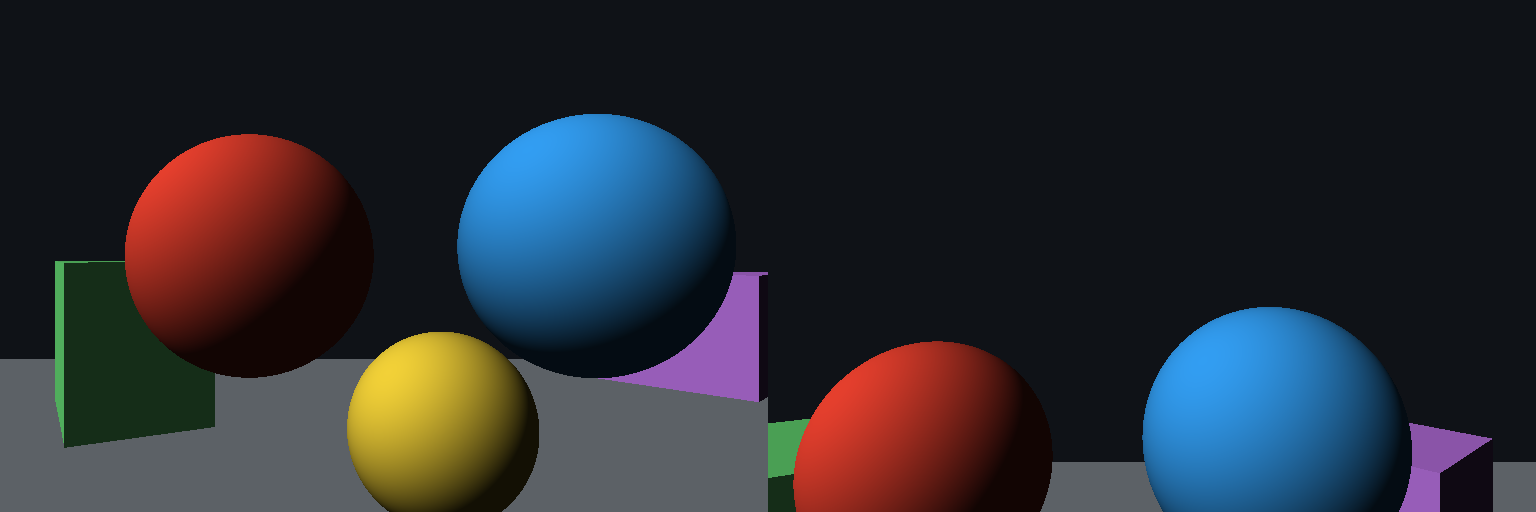
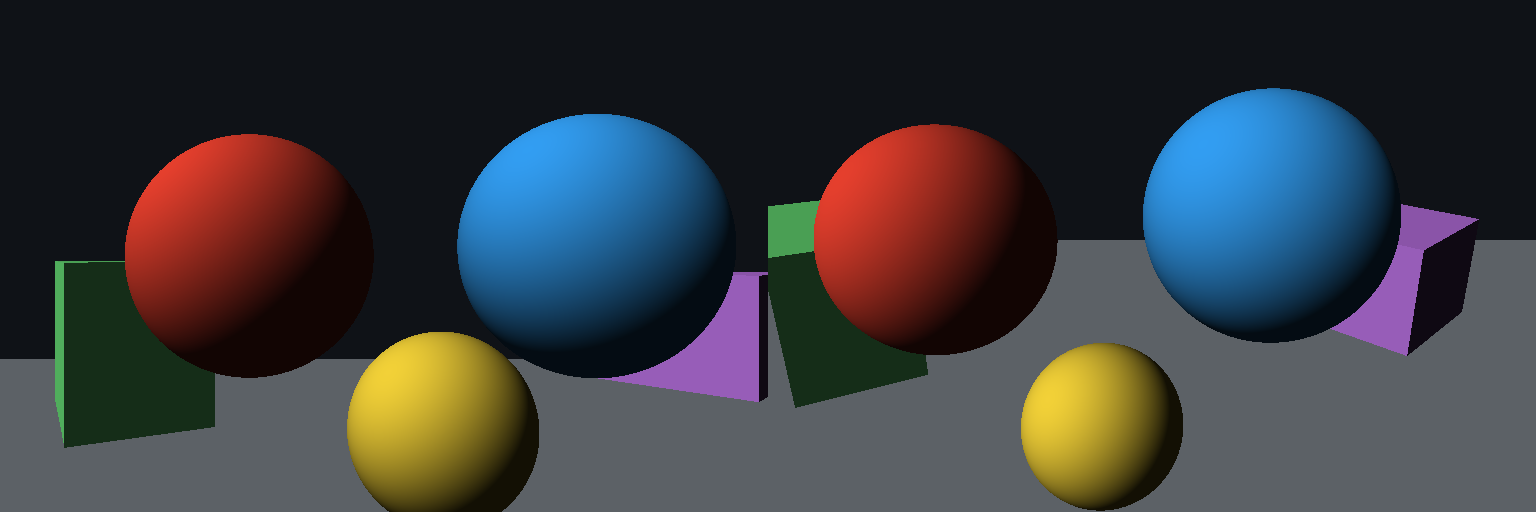
Camera orientation

diff --git a/synthetic_scene/renderer.py b/synthetic_scene/renderer.py
@@ -16,6 +16,11 @@ Vec3List = Union[Sequence[Vec3], torch.Tensor]
 @dataclass(frozen=True)
 class Camera:
     origin: Vec3 = (0.0, 0.0, 0.0)
+    orientation: Union[Sequence[Vec3], torch.Tensor] = (
+        (1.0, 0.0, 0.0),
+        (0.0, 1.0, 0.0),
+        (0.0, 0.0, 1.0),
+    )
     fov_degrees: float = 45.0
 
 
@@ -77,6 +82,15 @@ def _camera_origins(cameras: Camera | Sequence[Camera], *, device: torch.device 
     return torch.stack(origins, dim=0).contiguous()
 
 
+def _camera_orientations(cameras: Camera | Sequence[Camera], *, device: torch.device | str = "cuda") -> torch.Tensor:
+    if isinstance(cameras, Camera):
+        return _mat3(cameras.orientation, device=device).reshape(1, 3, 3)
+    if len(cameras) == 0:
+        raise ValueError("at least one camera is required")
+    orientations = [_mat3(camera.orientation, device=device) for camera in cameras]
+    return torch.stack(orientations, dim=0).contiguous()
+
+
 def _camera_fov_degrees(cameras: Camera | Sequence[Camera]) -> float:
     if isinstance(cameras, Camera):
         return float(cameras.fov_degrees)
@@ -86,6 +100,16 @@ def _camera_fov_degrees(cameras: Camera | Sequence[Camera]) -> float:
     if any(float(camera.fov_degrees) != fov_degrees for camera in cameras):
         raise ValueError("batched cameras must share the same fov_degrees")
     return fov_degrees
+
+
+def _mat3(value: Union[Sequence[Vec3], torch.Tensor], *, device: torch.device | str = "cuda") -> torch.Tensor:
+    tensor = torch.as_tensor(value, dtype=torch.float32, device=device)
+    if tensor.numel() != 9:
+        raise ValueError("expected a 3 x 3 matrix")
+    tensor = tensor.reshape(3, 3)
+    if bool((tensor.norm(dim=1) <= 1.0e-8).any().item()):
+        raise ValueError("camera orientation rows must be non-zero")
+    return tensor.contiguous()
 
 
 def _vec3_list(value: Vec3List, *, device: torch.device | str = "cuda") -> torch.Tensor:
@@ -181,6 +205,7 @@ def render_scene(
         raise ValueError("box_axes must contain non-zero axis vectors")
 
     camera_origins = _camera_origins(camera_data, device=device)
+    camera_orientations = _camera_orientations(camera_data, device=device)
     batch_size = camera_origins.shape[0]
 
     image = torch.empty((batch_size, 3, height, width), dtype=torch.float32, device=device)
@@ -192,6 +217,7 @@ def render_scene(
         semantic_map,
         {
             "origin": camera_origins,
+            "orientation": camera_orientations,
             "fov_degrees": _camera_fov_degrees(camera_data),
         },
         {

diff --git a/synthetic_scene/csrc/bindings.cpp b/synthetic_scene/csrc/bindings.cpp
@@ -7,6 +7,7 @@ void render_scene_cuda(
     torch::Tensor instance_map,
     torch::Tensor semantic_map,
     torch::Tensor camera_origin,
+    torch::Tensor camera_orientation,
     torch::Tensor sphere_centers,
     torch::Tensor sphere_radii,
     torch::Tensor plane_points,
@@ -51,6 +52,7 @@ void render_scene(
   const py::dict boxes = require_dict(scene, "boxes");
 
   const torch::Tensor camera_origin = require_tensor(camera, "origin");
+  const torch::Tensor camera_orientation = require_tensor(camera, "orientation");
   const double fov_degrees = require_double(camera, "fov_degrees");
   const torch::Tensor light_dir = require_tensor(options, "light_dir");
   const torch::Tensor background = require_tensor(options, "background");
@@ -83,12 +85,17 @@ void render_scene(
           (semantic_map.dim() == 3 && semantic_map.size(0) == image.size(0) && semantic_map.size(1) == image.size(2) &&
            semantic_map.size(2) == image.size(3)),
       "semantic_map must be empty or B x H x W");
-  TORCH_CHECK(camera_origin.is_cuda() && sphere_centers.is_cuda() && sphere_radii.is_cuda(), "scene tensors must be CUDA tensors");
+  TORCH_CHECK(camera_origin.is_cuda() && camera_orientation.is_cuda(), "camera tensors must be CUDA tensors");
+  TORCH_CHECK(sphere_centers.is_cuda() && sphere_radii.is_cuda(), "scene tensors must be CUDA tensors");
   TORCH_CHECK(plane_points.is_cuda() && plane_normals.is_cuda(), "scene tensors must be CUDA tensors");
   TORCH_CHECK(box_centers.is_cuda() && box_half_sizes.is_cuda() && box_axes.is_cuda(), "scene tensors must be CUDA tensors");
   TORCH_CHECK(light_dir.is_cuda() && background.is_cuda() && sphere_colors.is_cuda() && plane_colors.is_cuda() && box_colors.is_cuda(), "scene tensors must be CUDA tensors");
   TORCH_CHECK(camera_origin.dim() == 2 && camera_origin.size(1) == 3, "camera_origin must be B x 3");
+  TORCH_CHECK(
+      camera_orientation.dim() == 3 && camera_orientation.size(1) == 3 && camera_orientation.size(2) == 3,
+      "camera_orientation must be B x 3 x 3");
   TORCH_CHECK(camera_origin.size(0) == image.size(0), "camera_origin batch size must match image batch size");
+  TORCH_CHECK(camera_orientation.size(0) == image.size(0), "camera_orientation batch size must match image batch size");
   TORCH_CHECK(sphere_centers.dim() == 2 && sphere_centers.size(1) == 3, "sphere_centers must be N x 3");
   TORCH_CHECK(sphere_radii.dim() == 1, "sphere_radii must be N");
   TORCH_CHECK(plane_points.dim() == 2 && plane_points.size(1) == 3, "plane_points must be N x 3");
@@ -109,6 +116,7 @@ void render_scene(
   TORCH_CHECK(sphere_centers.size(0) > 0 || plane_points.size(0) > 0 || box_centers.size(0) > 0, "at least one object is required");
   TORCH_CHECK(light_dir.numel() == 3 && background.numel() == 3, "light/background vectors must be vec3");
   TORCH_CHECK(camera_origin.dtype() == torch::kFloat32, "camera_origin must be float32");
+  TORCH_CHECK(camera_orientation.dtype() == torch::kFloat32, "camera_orientation must be float32");
   TORCH_CHECK(sphere_centers.dtype() == torch::kFloat32, "sphere_centers must be float32");
   TORCH_CHECK(sphere_radii.dtype() == torch::kFloat32, "sphere_radii must be float32");
   TORCH_CHECK(plane_points.dtype() == torch::kFloat32, "plane_points must be float32");
@@ -123,7 +131,8 @@ void render_scene(
   TORCH_CHECK(box_colors.dtype() == torch::kFloat32, "box_colors must be float32");
   TORCH_CHECK(image.is_contiguous(), "image must be contiguous");
   TORCH_CHECK(instance_map.is_contiguous() && semantic_map.is_contiguous(), "segmentation maps must be contiguous");
-  TORCH_CHECK(camera_origin.is_contiguous() && sphere_centers.is_contiguous() && sphere_radii.is_contiguous(), "scene tensors must be contiguous");
+  TORCH_CHECK(camera_origin.is_contiguous() && camera_orientation.is_contiguous(), "camera tensors must be contiguous");
+  TORCH_CHECK(sphere_centers.is_contiguous() && sphere_radii.is_contiguous(), "scene tensors must be contiguous");
   TORCH_CHECK(plane_points.is_contiguous() && plane_normals.is_contiguous(), "scene tensors must be contiguous");
   TORCH_CHECK(box_centers.is_contiguous() && box_half_sizes.is_contiguous() && box_axes.is_contiguous(), "scene tensors must be contiguous");
   TORCH_CHECK(light_dir.is_contiguous() && background.is_contiguous() && sphere_colors.is_contiguous() && plane_colors.is_contiguous() && box_colors.is_contiguous(), "scene tensors must be contiguous");
@@ -133,6 +142,7 @@ void render_scene(
       instance_map,
       semantic_map,
       camera_origin,
+      camera_orientation,
       sphere_centers,
       sphere_radii,
       plane_points,

diff --git a/examples/render.py b/examples/render.py
@@ -14,7 +14,14 @@ def main() -> None:
         scene=default_scene(),
         camera=[
             Camera(origin=(-0.22, 0.0, 0.0)),
-            Camera(origin=(0.22, 1.0, 0.0)),
+            Camera(
+                origin=(0.22, 1.0, 0.0),
+                orientation=(
+                    (1.0, 0.0, 0.0),
+                    (0.0, 0.94, -0.34),
+                    (0.0, 0.34, 0.94),
+                ),
+            ),
         ],
         return_maps=True,
     )

diff --git a/README.md b/README.md
@@ -34,7 +34,14 @@ image = render_scene(
     height=512,
     camera=[
         Camera(origin=(-0.2, 0.0, 0.0)),
-        Camera(origin=(0.2, 0.0, 0.0)),
+        Camera(
+            origin=(0.2, 1.0, 0.0),
+            orientation=(
+                (1.0, 0.0, 0.0),
+                (0.0, 0.94, -0.34),
+                (0.0, 0.34, 0.94),
+            ),
+        ),
     ],
     scene=Scene(
         spheres=Spheres(
@@ -65,6 +72,9 @@ image = render_scene(
 
 RGB tensors are returned as `B x 3 x H x W`. Passing a single camera, or leaving
 `camera` unset, returns a batch with `B = 1`.
+`Camera.orientation` is a `3 x 3` camera-to-world rotation matrix whose rows are
+the world-space right, up, and back axes; the default identity orientation looks
+down world `-Z`.
 
 To request segmentation ground truth, pass `return_maps=True`:
 